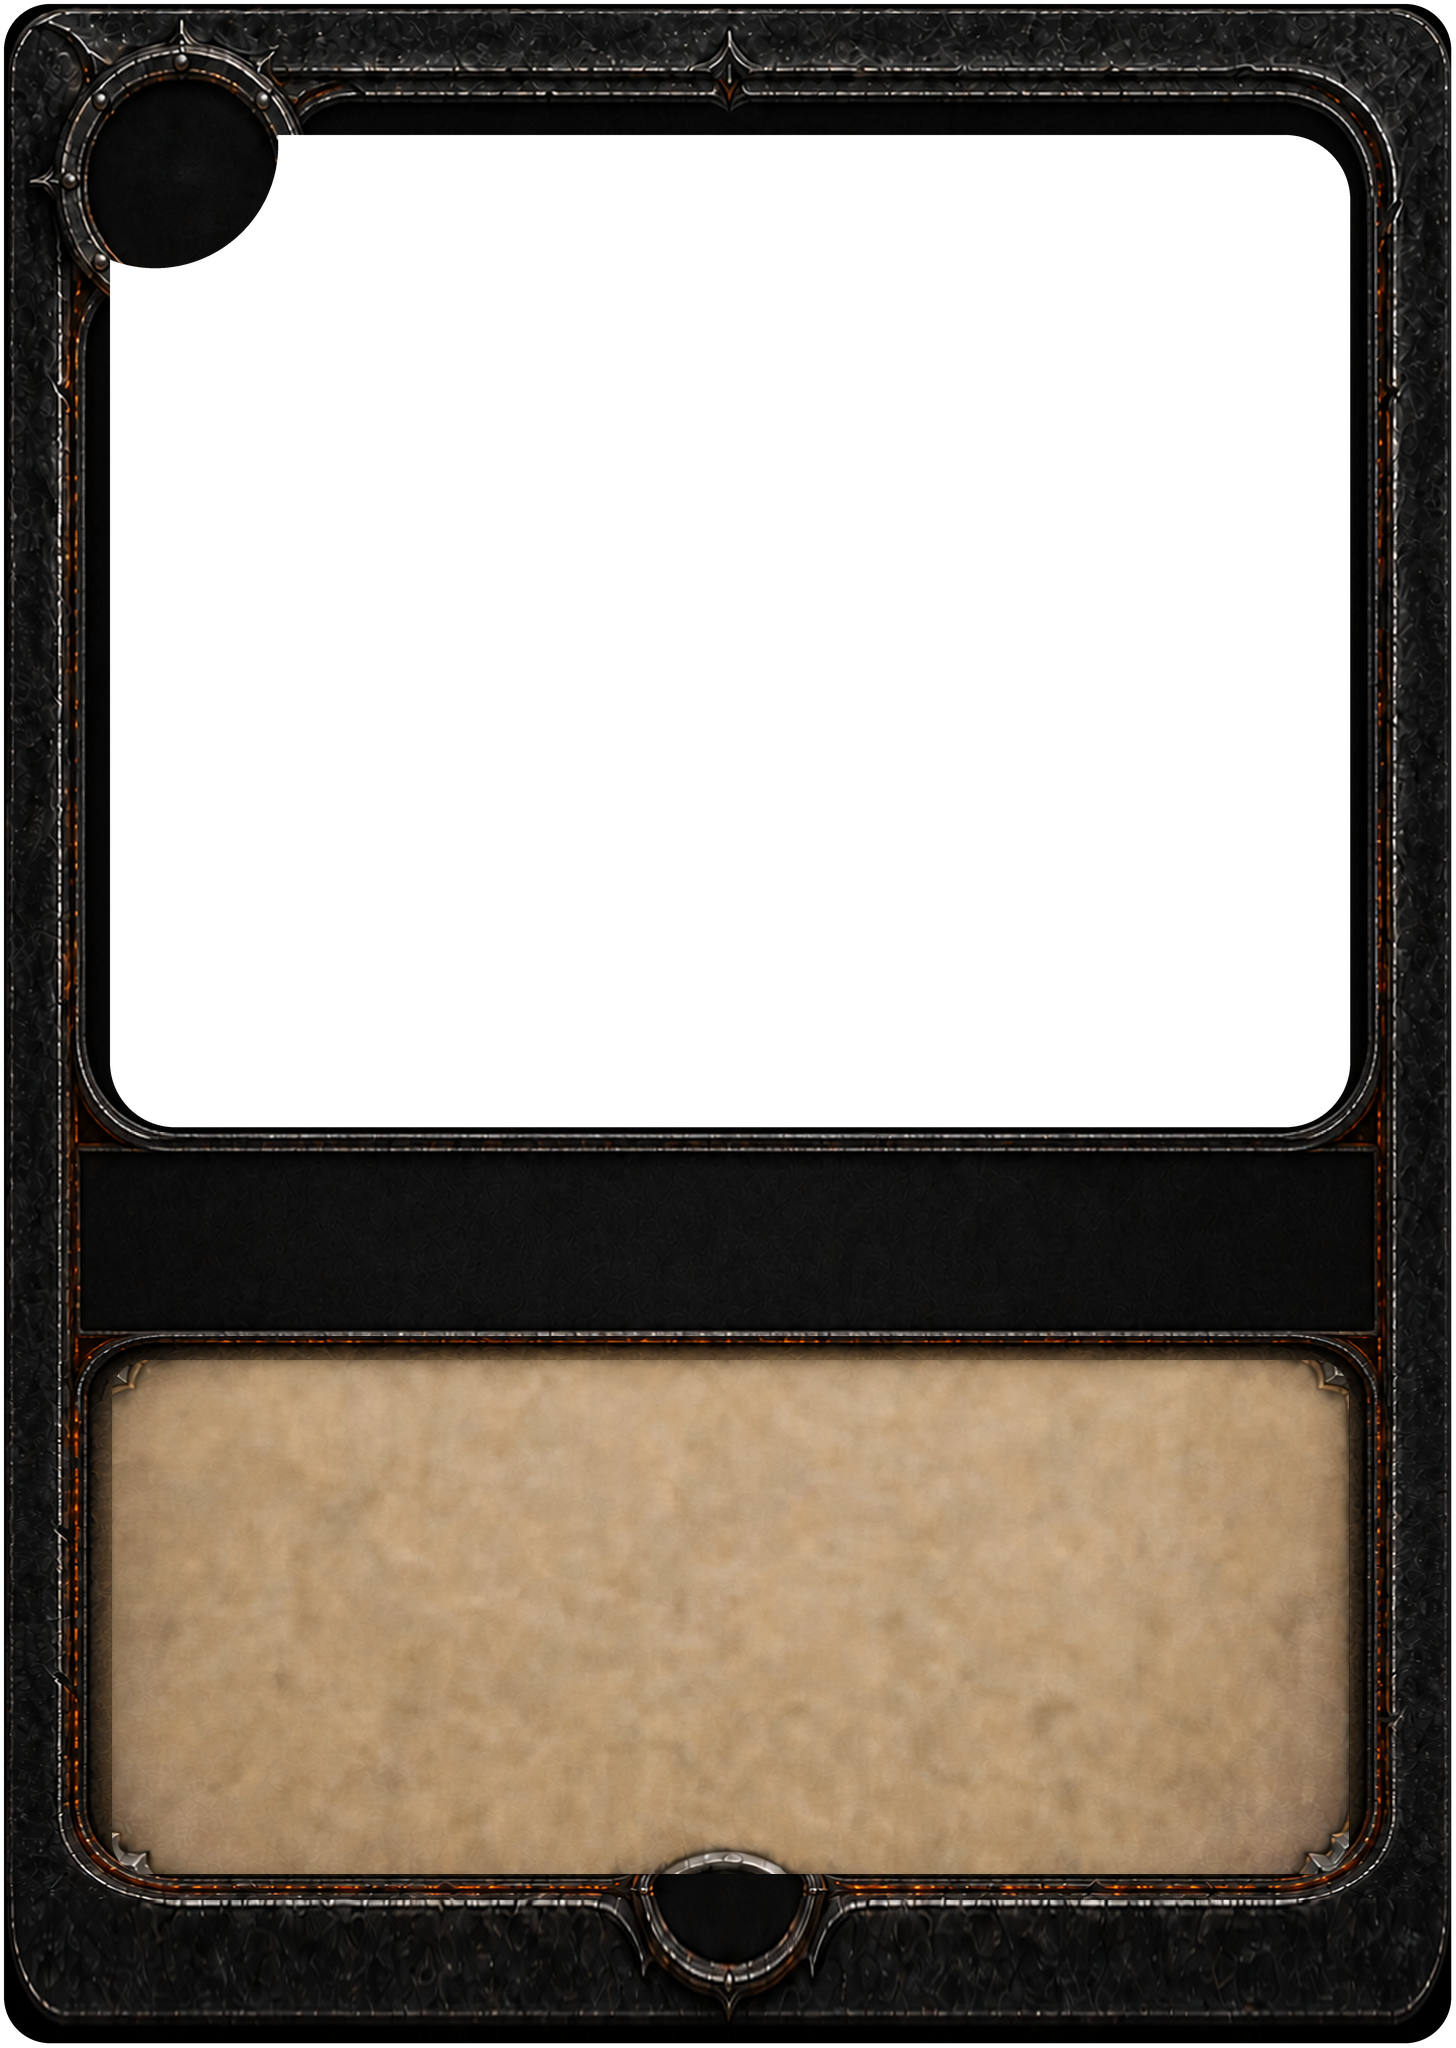
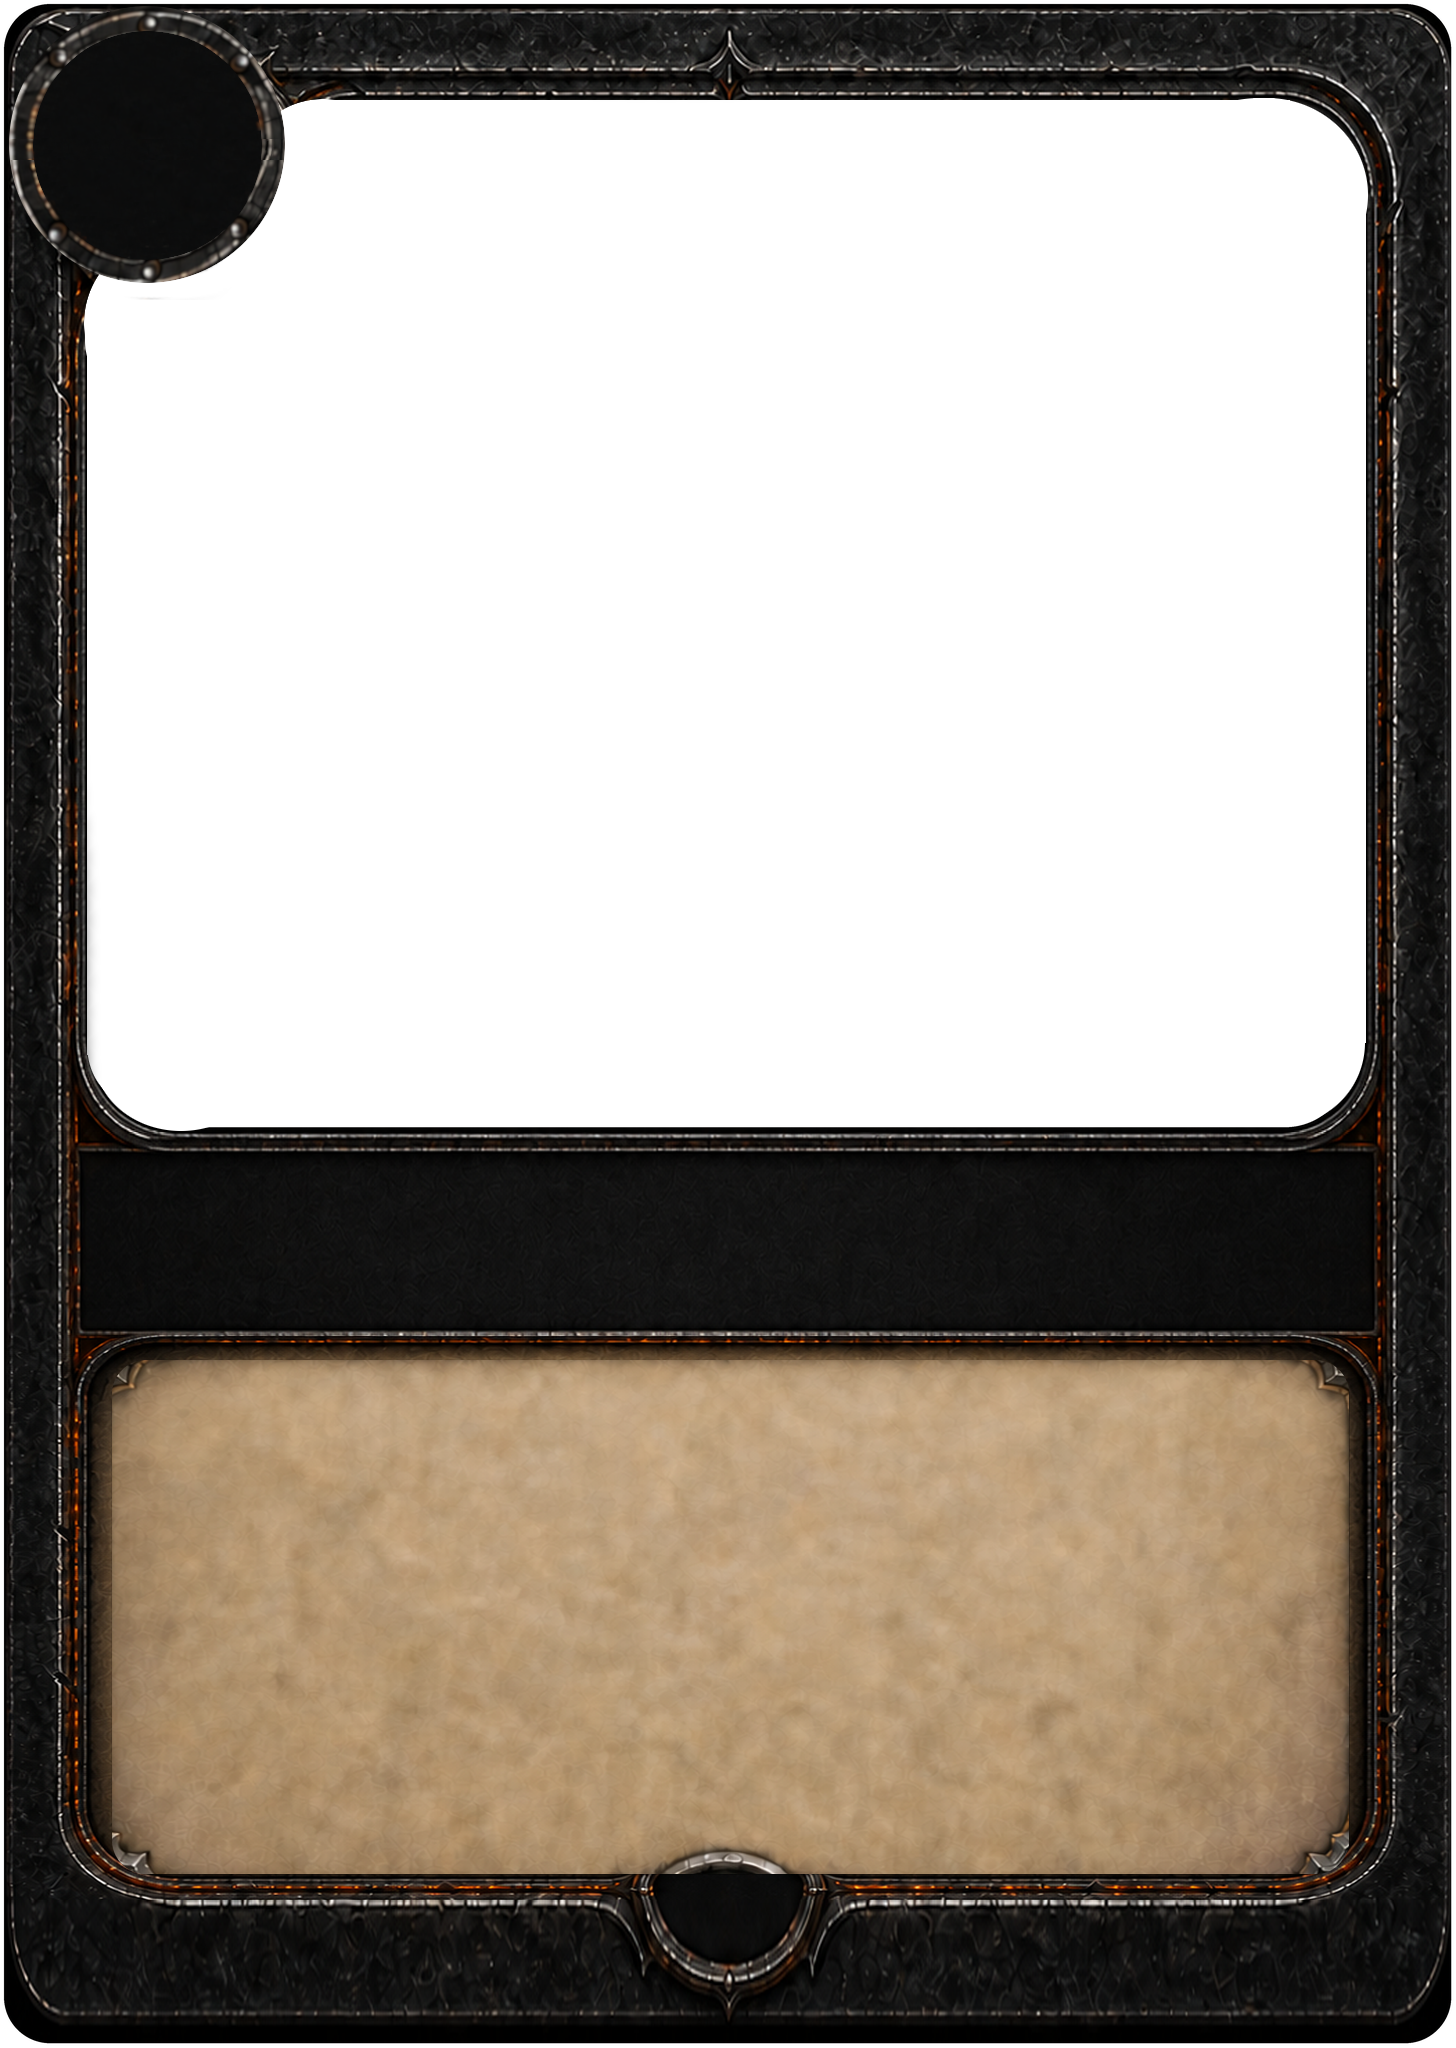
fix(cards): conform epic's spell frame, close its art-window gap, fit the text bed
Completes the frame set. Every socket on all eight frames is now inside the
tolerance docs/dev-docs/specs/card-frame-geo.md sets, worst in the set 10%.

  frame                    cost  attack  health           aperture l,t,r,b              gap       text bed
  frame_common               3%      4%      4%       (67, 63, 1394, 1139)  22 @ y1040-1061   1272 x 538
  frame_common_spell         9%    --      --       (110, 135, 1350, 1127)             none   1237 x 529
  frame_rare                 3%      4%      6%       (75, 71, 1380, 1127)             none   1238 x 535
  frame_rare_spell           6%    --      --         (79, 70, 1382, 1127)             none   1238 x 535
  frame_epic                 1%      1%      1%      (86, 103, 1371, 1144) 5,683 @ y1139-1143   1277 x 531
  frame_epic_spell           7%    --      --        (84, 100, 1368, 1127)             none   1233 x 515
  frame_legendary            5%      9%      9%      (98, 121, 1365, 1131)             none   1260 x 546
  frame_legendary_spell     10%    --      --       (110, 135, 1350, 1127)             none   1233 x 537

Spell frames are measured on cost only -- ShowAttack and ShowHealth are false
for SPELL, so a miss at their stat positions is meaningless rather than a defect.
frame_epic_spell goes 25% -> 7%, which was the last visibly wrong socket.

ArtWindow's bottom edge 0.5562 -> 0.5596, two pixels past epic's aperture bottom
[…]

Changed region(s): [[0.0, 0.0, 0.9581, 0.5625]]

diff --git a/unity/Emberfall/Assets/Scripts/Presentation/FrameRarityCatalog.cs b/unity/Emberfall/Assets/Scripts/Presentation/FrameRarityCatalog.cs
@@ -61,12 +61,15 @@ namespace Emberfall.Presentation
         // unconformed sibling frame, and the disc radii are unchanged (0.0444h -> 0.0454h), which
         // is why the digit em sizes below did not move.
         //
-        // ONLY frame_common.png carries this geometry today. The other seven frames still measure
-        // the 2026-08-09 aperture (0.0755, 0.0659, 0.9272, 0.5503), so a non-common card overflows
-        // its art past the border — accepted knowingly (Sam, 2026-08-16) pending their conform pass.
-        // RETIREMENT TRIGGER: conforming the other seven frames to common's aperture is what makes
-        // this file's geometry unified again — delete the previous paragraph in that same commit.
-        public static readonly Vector4 ArtWindow = new(0.0460f, 0.0308f, 0.9574f, 0.5562f); // l, t, r, b
+        // All eight frames are conformed as of 2026-08-17 — every socket is inside tolerance, worst
+        // in the set 10%. The apertures still differ per frame and that is FINE, because the frame
+        // draws on top of the art quad: an aperture SMALLER than ArtWindow is covered, and only one
+        // LARGER opens a gap onto the dark body quad behind. So the single rule is that ArtWindow
+        // must cover the largest aperture in the set. The bottom edge below is set 2px past epic's
+        // 1144, the lowest in the set, which closes the 5-row strip epic showed before.
+        // RETIREMENT TRIGGER: if any frame's aperture is ever enlarged past this rect, this edge
+        // moves with it in the same commit — see docs/dev-docs/specs/card-frame-geo.md.
+        public static readonly Vector4 ArtWindow = new(0.0460f, 0.0308f, 0.9574f, 0.5596f); // l, t, r, b
 
         public static readonly Vector2 CostSocket = new(0.0911f, 0.0731f); // carries the 2026-08-09 "nudge it down a couple px" (Sam, live check)
         public const float CostDigitEm = 200f / 2048f;
@@ -86,7 +89,11 @@ namespace Emberfall.Presentation
         public const float NameCenterY   = 0.613f;  // of card height, from the top (title-band center)
         public const float NameEm        = 107f / 2048f;
         public const float BodyCenterY   = 0.798f;  // rules-parchment center
-        public const float BodyWidth     = 0.874f;  // of card width
+        // 0.846 = 1232px, which fits the NARROWEST parchment in the set (epic_spell and
+        // legendary_spell both measure 1233 wide). The previous 0.874 was 1273px and overhung
+        // those two, and rare, by ~20px per side — rules text ran off the parchment onto the
+        // stone rails, which the parchment edge sitting right there makes obvious.
+        public const float BodyWidth     = 0.846f;  // of card width
         public const float BodyHeight    = 0.234f;  // of card height
         public const float BodyEm        = 100f / 2048f;
         public const float BodyEmFloor   = 72f / 2048f; // auto-shrink floor for long rules text
